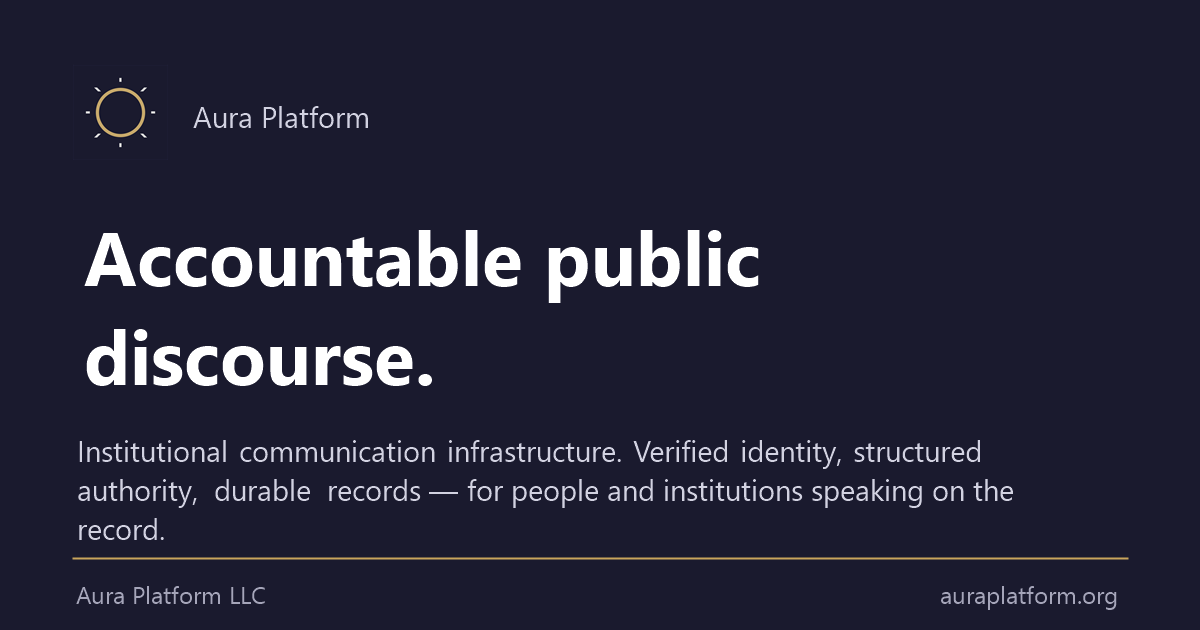
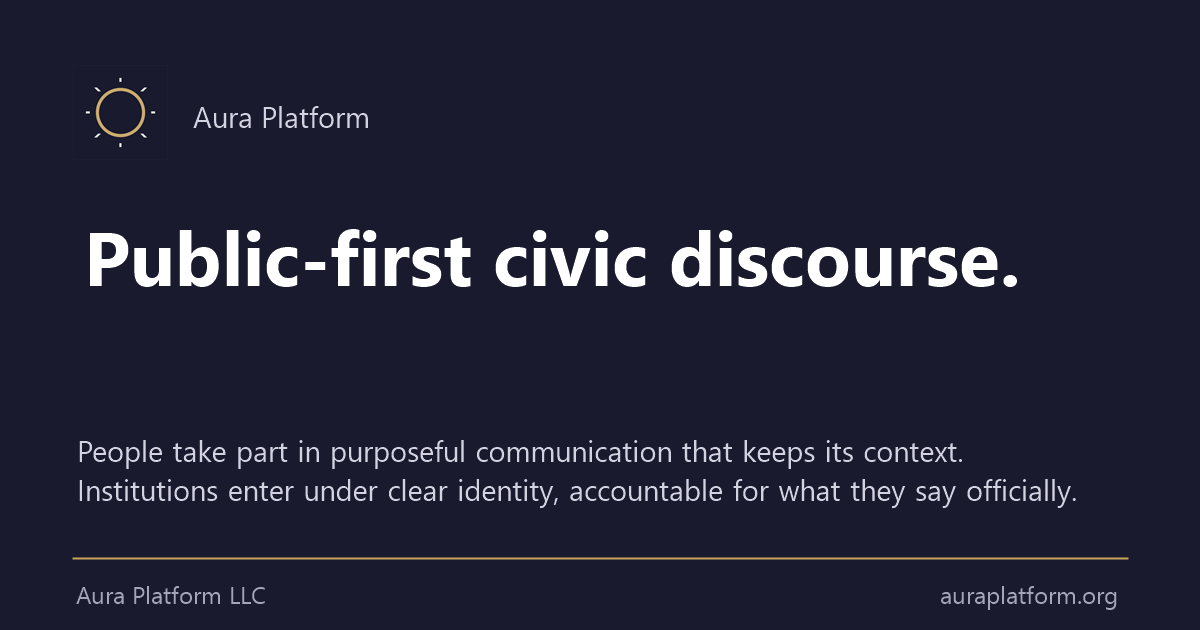
Say what Aura is on the card that speaks for it
The default social card is what every share without a cover image
unfurls as - every article, post, announcement and profile. It is the
single most-seen statement of what Aura is, and it was three wordings
behind, which the founder saw on Facebook and LinkedIn on 2026-09-05 and
called legacy.

There were three, not two. The committed PNG said "Accountable public
discourse. / Institutional communication infrastructure...". The
generator that is supposed to produce it said something different again
- a headline the public-first causal gate names verbatim in its
prohibited map. The gate never scanned the generator, so the phrase
survived every correction made around it, including the 2026-08-15
public-first reconciliation that corrected web/index.html one directory
away.

The card now says what the canon says:

  Public-first civic discourse.
  People take part in purposeful communication that keeps its context.
  Institutions enter under clear identity, accountable for what they say
  officially.

Both lines are lifted from PRODUCT_IDENTITY_CANON.md (Aura > Identity)
and web/index.html, not composed here. A card that paraphrases the canon
is a fourth wording.

The gold ring mark is unchanged: assets/brand/AURA_logo_master.svg
confirms it is the canonical mark, not legacy artwork.

So that this cannot drift a fourth time, two ratchets:

  * The OG and route metadata generators are now scanned by the
    public-first causal gate. Banning a phrase is what stops the
[…]

Changed region(s): [[0.0617, 0.6937, 0.8942, 0.8746], [0.0617, 0.3619, 0.8633, 0.4825], [0.0617, 0.5127, 0.37, 0.6333]]

diff --git a/test/doctrine/public_first_causal_gate_test.dart b/test/doctrine/public_first_causal_gate_test.dart
@@ -59,6 +59,22 @@ const _generalSurfaces = <String>[
   // same layer cannot drift again.
   'web/index.html',
   'web/manifest.json',
+
+  // The social cards are the same layer one step further out: they are what a
+  // person sees on Facebook, LinkedIn or Slack BEFORE they reach any Aura
+  // surface at all, and the default card is what every share without a cover
+  // image unfurls as. The generator is scoped rather than the PNGs because a
+  // gate cannot read text out of an image, so the source of the words is what
+  // gets guarded.
+  //
+  // This file carried the first prohibited phrase in the map below --
+  // verbatim, as the default card's headline -- for as long as the gate has
+  // existed. Nothing caught it because nothing looked here. Found 2026-09-05
+  // while correcting the card the founder called legacy. It is not quoted
+  // here: a scan this blunt would flag the comment describing the fix, and
+  // the right answer to that is to say less, not to soften the scan.
+  'tool/web/generate_og_images.ps1',
+  'tool/web/generate_route_metadata.dart',
 ];
 
 /// Phrases that assert the prohibited reverse causal model, or claim a
@@ -123,6 +139,47 @@ void main() {
             'specific surfaces are not scanned. Fix the causality, not the '
             'vocabulary.\n',
       );
+    });
+
+    test('the default social card says what the canon says', () {
+      // THE NEGATIVE GATE ABOVE IS NOT ENOUGH FOR THIS ONE FILE.
+      //
+      // Banning a phrase stops the known-wrong headline coming back. It does
+      // not stop a fourth wording being invented, which is what actually
+      // happened here: the committed card, this generator and web/index.html
+      // each carried a different statement of what Aura is, and the card that
+      // reached Facebook and LinkedIn was the oldest of the three.
+      //
+      // So the default card's copy is tied to the metadata layer that already
+      // carries the founder-approved public-first correction. Fragments, not
+      // whole strings: a headline is not a sentence and a card is not a page,
+      // but every claim the card makes must be traceable to one that ships.
+      final generator =
+          File('tool/web/generate_og_images.ps1').readAsStringSync();
+      final index = File('web/index.html').readAsStringSync().toLowerCase();
+
+      final defaultCard = generator.substring(
+        generator.indexOf("-OutFile (Join-Path \$assetsDir 'og-default.png')"),
+        generator.indexOf("-OutFile (Join-Path \$assetsDir 'og-investors.png')"),
+      ).toLowerCase();
+      expect(defaultCard, isNotEmpty,
+          reason: 'the default card block moved; re-anchor this rather than '
+              'deleting the rule');
+
+      for (final claim in const [
+        'public-first',
+        'civic discourse',
+        'people take part in purposeful communication that keeps its context',
+        'accountable for what they say officially',
+      ]) {
+        expect(defaultCard, contains(claim),
+            reason: 'the default social card dropped a canonical claim: '
+                '"\$claim"');
+        expect(index, contains(claim),
+            reason: 'the default social card claims "\$claim", which '
+                'web/index.html does not. One of them is drifting, and the '
+                'card is the one nobody can read without rendering it.');
+      }
     });
 
     test('the scope list stays honest', () {

diff --git a/web/index.html b/web/index.html
@@ -37,8 +37,8 @@
   <meta property="og:title" data-aura-meta="og:title" content="Aura Platform — Public-First Communication and Civic Discourse">
   <meta property="og:description" data-aura-meta="og:description" content="A public-first platform for civic discourse and accountable communication. People take part in purposeful communication that keeps its context; institutions enter under clear identity.">
   <meta property="og:url" data-aura-meta="og:url" content="https://auraplatform.org/">
-  <meta property="og:image" data-aura-meta="og:image" content="https://auraplatform.org/social/og-default.png">
-  <meta property="og:image:secure_url" data-aura-meta="og:image:secure_url" content="https://auraplatform.org/social/og-default.png">
+  <meta property="og:image" data-aura-meta="og:image" content="https://auraplatform.org/social/og-default.png?v=2">
+  <meta property="og:image:secure_url" data-aura-meta="og:image:secure_url" content="https://auraplatform.org/social/og-default.png?v=2">
   <meta property="og:image:type" content="image/png">
   <meta property="og:image:width" content="1200">
   <meta property="og:image:height" content="630">
@@ -48,7 +48,7 @@
   <meta name="twitter:card" content="summary_large_image">
   <meta name="twitter:title" data-aura-meta="twitter:title" content="Aura Platform — Public-First Communication and Civic Discourse">
   <meta name="twitter:description" data-aura-meta="twitter:description" content="A public-first platform for civic discourse and accountable communication. People take part in purposeful communication that keeps its context; institutions enter under clear identity.">
-  <meta name="twitter:image" data-aura-meta="twitter:image" content="https://auraplatform.org/social/og-default.png">
+  <meta name="twitter:image" data-aura-meta="twitter:image" content="https://auraplatform.org/social/og-default.png?v=2">
   <meta name="twitter:image:alt" data-aura-meta="twitter:image:alt" content="Aura Platform — public-first civic discourse and accountable communication">
 
   <!-- ─── Mobile PWA hints ────────────────────────────────────────── -->

diff --git a/tool/web/generate_route_metadata.dart b/tool/web/generate_route_metadata.dart
@@ -79,7 +79,12 @@ class _RouteMeta {
   final String? crawlerVisibleContactEmail;
 
   String get canonicalUrl => 'https://auraplatform.org$path';
-  String get imageUrl => 'https://auraplatform.org/social/$image';
+  /// Version-suffixed, matching `web/index.html` and the backend's
+  /// `ShareHtmlService.DEFAULT_OG_IMAGE`. A social platform caches a scraped
+  /// image against its URL, so an artwork change under an unchanged file name
+  /// keeps showing the old card for days -- about a week on LinkedIn, which
+  /// offers no purge. Bump all three together when the artwork changes.
+  String get imageUrl => 'https://auraplatform.org/social/$image?v=2';
 
   bool get hasCrawlerVisibleContent =>
       (crawlerVisibleHeading ?? '').trim().isNotEmpty;
